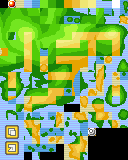
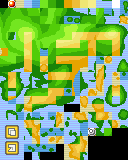
Add Secret Rocks to map

Changed region(s): [[0.75, 0.7812, 0.875, 0.875]]

diff --git a/src/data/region_map/region_map_layout_kanto.h b/src/data/region_map/region_map_layout_kanto.h
@@ -1,10 +1,10 @@
 static const u8 sRegionMapSections_Kanto[LAYER_COUNT][MAP_HEIGHT][MAP_WIDTH] = {
     [LAYER_MAP] =
     {
-        {MAPSEC_NONE, MAPSEC_NONE, MAPSEC_NONE, MAPSEC_NONE, MAPSEC_NONE, MAPSEC_NONE, MAPSEC_NONE, MAPSEC_NONE, MAPSEC_NONE, MAPSEC_NONE, MAPSEC_NONE, MAPSEC_NONE, MAPSEC_NONE, MAPSEC_NONE, MAPSEC_NONE, MAPSEC_NONE, MAPSEC_NONE, MAPSEC_NONE, MAPSEC_NONE, MAPSEC_NONE, MAPSEC_NONE, MAPSEC_NONE},
         {MAPSEC_NONE, MAPSEC_NONE, MAPSEC_NONE, MAPSEC_NONE, MAPSEC_NONE, MAPSEC_NONE, MAPSEC_NONE, MAPSEC_NONE, MAPSEC_NONE, MAPSEC_NONE, MAPSEC_NONE, MAPSEC_NONE, MAPSEC_NONE, MAPSEC_NONE, MAPSEC_ROUTE_24, MAPSEC_ROUTE_25, MAPSEC_ROUTE_25, MAPSEC_NONE, MAPSEC_NONE, MAPSEC_NONE, MAPSEC_NONE, MAPSEC_NONE},
         {MAPSEC_NONE, MAPSEC_NONE, MAPSEC_NONE, MAPSEC_NONE, MAPSEC_NONE, MAPSEC_NONE, MAPSEC_NONE, MAPSEC_NONE, MAPSEC_NONE, MAPSEC_NONE, MAPSEC_NONE, MAPSEC_NONE, MAPSEC_NONE, MAPSEC_NONE, MAPSEC_ROUTE_24, MAPSEC_NONE, MAPSEC_NONE, MAPSEC_NONE, MAPSEC_NONE, MAPSEC_NONE, MAPSEC_NONE, MAPSEC_NONE},
-        {MAPSEC_NONE, MAPSEC_NONE, MAPSEC_NONE, MAPSEC_NONE, MAPSEC_NONE, MAPSEC_NONE, MAPSEC_NONE, MAPSEC_NONE, MAPSEC_ROUTE_4_POKECENTER, MAPSEC_ROUTE_4, MAPSEC_ROUTE_4, MAPSEC_ROUTE_4, MAPSEC_ROUTE_4, MAPSEC_ROUTE_4, MAPSEC_CERULEAN_CITY, MAPSEC_ROUTE_9, MAPSEC_ROUTE_9, MAPSEC_ROUTE_9, MAPSEC_ROUTE_10_POKECENTER, MAPSEC_NONE, MAPSEC_NONE, MAPSEC_NONE},
+        {MAPSEC_NONE, MAPSEC_NONE, MAPSEC_NONE, MAPSEC_NONE, MAPSEC_NONE, MAPSEC_NONE, MAPSEC_NONE, MAPSEC_SECRET_ROCKS, MAPSEC_ROUTE_4, MAPSEC_ROUTE_4, MAPSEC_ROUTE_4, MAPSEC_ROUTE_4, MAPSEC_ROUTE_4, MAPSEC_ROUTE_4, MAPSEC_CERULEAN_CITY, MAPSEC_ROUTE_9, MAPSEC_ROUTE_9, MAPSEC_ROUTE_9, MAPSEC_ROUTE_10_POKECENTER, MAPSEC_NONE, MAPSEC_NONE, MAPSEC_NONE},
+        {MAPSEC_NONE, MAPSEC_NONE, MAPSEC_NONE, MAPSEC_NONE, MAPSEC_NONE, MAPSEC_NONE, MAPSEC_NONE, MAPSEC_NONE, MAPSEC_ROUTE_3, MAPSEC_NONE, MAPSEC_NONE, MAPSEC_NONE, MAPSEC_NONE, MAPSEC_NONE, MAPSEC_ROUTE_5, MAPSEC_NONE, MAPSEC_NONE, MAPSEC_NONE, MAPSEC_ROUTE_10, MAPSEC_NONE, MAPSEC_NONE, MAPSEC_NONE},
         {MAPSEC_NONE, MAPSEC_NONE, MAPSEC_NONE, MAPSEC_NONE, MAPSEC_PEWTER_CITY, MAPSEC_ROUTE_3, MAPSEC_ROUTE_3, MAPSEC_ROUTE_3, MAPSEC_ROUTE_3, MAPSEC_NONE, MAPSEC_NONE, MAPSEC_NONE, MAPSEC_NONE, MAPSEC_NONE, MAPSEC_ROUTE_5, MAPSEC_NONE, MAPSEC_NONE, MAPSEC_NONE, MAPSEC_ROUTE_10, MAPSEC_NONE, MAPSEC_NONE, MAPSEC_NONE},
         {MAPSEC_NONE, MAPSEC_NONE, MAPSEC_NONE, MAPSEC_NONE, MAPSEC_ROUTE_2, MAPSEC_NONE, MAPSEC_NONE, MAPSEC_NONE, MAPSEC_NONE, MAPSEC_NONE, MAPSEC_NONE, MAPSEC_NONE, MAPSEC_NONE, MAPSEC_NONE, MAPSEC_ROUTE_5, MAPSEC_NONE, MAPSEC_NONE, MAPSEC_NONE, MAPSEC_ROUTE_10, MAPSEC_NONE, MAPSEC_NONE, MAPSEC_NONE},
         {MAPSEC_NONE, MAPSEC_NONE, MAPSEC_NONE, MAPSEC_NONE, MAPSEC_ROUTE_2, MAPSEC_NONE, MAPSEC_NONE, MAPSEC_NONE, MAPSEC_ROUTE_16, MAPSEC_ROUTE_16, MAPSEC_ROUTE_16, MAPSEC_CELADON_CITY, MAPSEC_ROUTE_7, MAPSEC_ROUTE_7, MAPSEC_SAFFRON_CITY, MAPSEC_ROUTE_8, MAPSEC_ROUTE_8, MAPSEC_ROUTE_8, MAPSEC_LAVENDER_TOWN, MAPSEC_NONE, MAPSEC_NONE, MAPSEC_NONE},

diff --git a/src/data/heal_locations.h b/src/data/heal_locations.h
@@ -64,11 +64,11 @@ static const struct HealLocation sHealLocations[NUM_HEAL_LOCATIONS - 1] = {
         .x = 24,
         .y = 39,
     },
-    [HEAL_LOCATION_ROUTE4 - 1] = {
-        .mapGroup = MAP_GROUP(MAP_ROUTE4),
-        .mapNum = MAP_NUM(MAP_ROUTE4),
-        .x = 12,
-        .y = 6,
+    [HEAL_LOCATION_SECRET_ROCKS - 1] = {
+        .mapGroup = MAP_GROUP(MAP_VOID),
+        .mapNum = MAP_NUM(MAP_VOID),
+        .x = 0,
+        .y = 0,
     },
     [HEAL_LOCATION_ROUTE10 - 1] = {
         .mapGroup = MAP_GROUP(MAP_ROUTE10),
@@ -143,7 +143,7 @@ static const u16 sWhiteoutRespawnHealCenterMapIdxs[NUM_HEAL_LOCATIONS - 1][2] = 
     [HEAL_LOCATION_FUCHSIA_CITY - 1] = { MAP_GROUP(MAP_FUCHSIA_CITY_POKEMON_CENTER_1F), MAP_NUM(MAP_FUCHSIA_CITY_POKEMON_CENTER_1F)},
     [HEAL_LOCATION_INDIGO_PLATEAU - 1] = { MAP_GROUP(MAP_INDIGO_PLATEAU_POKEMON_CENTER_1F), MAP_NUM(MAP_INDIGO_PLATEAU_POKEMON_CENTER_1F)},
     [HEAL_LOCATION_SAFFRON_CITY - 1] = { MAP_GROUP(MAP_SAFFRON_CITY_POKEMON_CENTER_1F), MAP_NUM(MAP_SAFFRON_CITY_POKEMON_CENTER_1F)},
-    [HEAL_LOCATION_ROUTE4 - 1] = { MAP_GROUP(MAP_ROUTE4_POKEMON_CENTER_1F), MAP_NUM(MAP_ROUTE4_POKEMON_CENTER_1F)},
+    [HEAL_LOCATION_SECRET_ROCKS - 1] = { MAP_GROUP(MAP_VOID), MAP_NUM(MAP_VOID)},
     [HEAL_LOCATION_ROUTE10 - 1] = { MAP_GROUP(MAP_ROUTE10_POKEMON_CENTER_1F), MAP_NUM(MAP_ROUTE10_POKEMON_CENTER_1F)},
     [HEAL_LOCATION_ONE_ISLAND - 1] = { MAP_GROUP(MAP_ONE_ISLAND_POKEMON_CENTER_1F), MAP_NUM(MAP_ONE_ISLAND_POKEMON_CENTER_1F)},
     [HEAL_LOCATION_TWO_ISLAND - 1] = { MAP_GROUP(MAP_TWO_ISLAND_POKEMON_CENTER_1F), MAP_NUM(MAP_TWO_ISLAND_POKEMON_CENTER_1F)},
@@ -167,7 +167,7 @@ static const u8 sWhiteoutRespawnHealerNpcIds[NUM_HEAL_LOCATIONS - 1] = {
     [HEAL_LOCATION_FUCHSIA_CITY - 1] = LOCALID_FUCHSIA_NURSE,
     [HEAL_LOCATION_INDIGO_PLATEAU - 1] = LOCALID_LEAGUE_NURSE,
     [HEAL_LOCATION_SAFFRON_CITY - 1] = LOCALID_SAFFRON_NURSE,
-    [HEAL_LOCATION_ROUTE4 - 1] = LOCALID_ROUTE4_NURSE,
+    [HEAL_LOCATION_SECRET_ROCKS - 1] = 0,
     [HEAL_LOCATION_ROUTE10 - 1] = LOCALID_ROUTE10_NURSE,
     [HEAL_LOCATION_ONE_ISLAND - 1] = LOCALID_ONE_ISLAND_NURSE,
     [HEAL_LOCATION_TWO_ISLAND - 1] = LOCALID_TWO_ISLAND_NURSE,

diff --git a/src/region_map.c b/src/region_map.c
@@ -836,7 +836,7 @@ static const u8 sMapFlyDestinations[][3] = {
     [MAPSEC_RUINS_OF_CINNABAR   - KANTO_MAPSEC_START] = {MAP(MAP_RUINS_OF_CINNABAR),                     HEAL_LOCATION_RUINS_OF_CINNABAR},
     [MAPSEC_INDIGO_PLATEAU      - KANTO_MAPSEC_START] = {MAP(MAP_INDIGO_PLATEAU_EXTERIOR),               HEAL_LOCATION_INDIGO_PLATEAU},
     [MAPSEC_SAFFRON_CITY        - KANTO_MAPSEC_START] = {MAP(MAP_SAFFRON_CITY),                          HEAL_LOCATION_SAFFRON_CITY},
-    [MAPSEC_ROUTE_4_POKECENTER  - KANTO_MAPSEC_START] = {MAP(MAP_ROUTE4),                                HEAL_LOCATION_ROUTE4},
+    [MAPSEC_SECRET_ROCKS        - KANTO_MAPSEC_START] = {MAP(MAP_ROUTE4), /* TODO: Add new map later */  HEAL_LOCATION_SECRET_ROCKS},
     [MAPSEC_ROUTE_10_POKECENTER - KANTO_MAPSEC_START] = {MAP(MAP_ROUTE10),                               HEAL_LOCATION_ROUTE10},
     [MAPSEC_SECRET_PATH         - KANTO_MAPSEC_START] = {MAP(MAP_SECRET_PATH_SOUTH),                     0},
     [MAPSEC_ROUTE_1             - KANTO_MAPSEC_START] = {MAP(MAP_ROUTE1),                                0},
@@ -1155,7 +1155,7 @@ static void CreateMainMapTask(void)
 
 static bool32 SelectedMapsecSEEnabled(void)
 {
-    if (GetSelectedMapSection(GetSelectedRegionMap(), LAYER_MAP, GetMapCursorY(), GetMapCursorX()) == MAPSEC_ROUTE_4_POKECENTER)
+    if (GetSelectedMapSection(GetSelectedRegionMap(), LAYER_MAP, GetMapCursorY(), GetMapCursorX()) == MAPSEC_SECRET_ROCKS)
         return FALSE;
     else
         return TRUE;
@@ -2987,7 +2987,7 @@ static u8 GetMapsecType(u8 mapsec)
         return FlagGet(FLAG_WORLD_MAP_SEVEN_ISLAND) ? MAPSECTYPE_VISITED : MAPSECTYPE_NOT_VISITED;
     case MAPSEC_SIX_ISLAND:
         return FlagGet(FLAG_WORLD_MAP_SECRET_WOODS) ? MAPSECTYPE_VISITED : MAPSECTYPE_NOT_VISITED;
-    case MAPSEC_ROUTE_4_POKECENTER:
+    case MAPSEC_SECRET_ROCKS:
         if (!GetRegionMapPermission(MAPPERM_HAS_FLY_DESTINATIONS))
             return MAPSECTYPE_NONE;
         return FlagGet(FLAG_WORLD_MAP_ROUTE4_POKEMON_CENTER_1F) ? MAPSECTYPE_VISITED : MAPSECTYPE_NOT_VISITED;

diff --git a/src/wild_pokemon_area.c b/src/wild_pokemon_area.c
@@ -34,7 +34,7 @@ static const u16 sDexAreas_Kanto[][2] = {
     { MAPSEC_RUINS_OF_CINNABAR,     DEX_AREA_CINNABAR_ISLAND },
     { MAPSEC_INDIGO_PLATEAU,      DEX_AREA_INDIGO_PLATEAU },
     { MAPSEC_SAFFRON_CITY,        DEX_AREA_SAFFRON_CITY },
-    { MAPSEC_ROUTE_4_POKECENTER,  DEX_AREA_ROUTE_4 },
+    { MAPSEC_SECRET_ROCKS,        DEX_AREA_ROUTE_4 },
     { MAPSEC_ROUTE_10_POKECENTER, DEX_AREA_ROUTE_10 },
     { MAPSEC_ROUTE_1,             DEX_AREA_ROUTE_1 },
     { MAPSEC_ROUTE_2,             DEX_AREA_ROUTE_2 },

diff --git a/include/constants/region_map_sections.h b/include/constants/region_map_sections.h
@@ -104,13 +104,13 @@ enum {
     MAPSEC_RUINS_OF_CINNABAR,
     MAPSEC_INDIGO_PLATEAU,
     MAPSEC_SAFFRON_CITY,
-    MAPSEC_ROUTE_4_POKECENTER,
     MAPSEC_ROUTE_10_POKECENTER,
     MAPSEC_SECRET_WOODS,
     MAPSEC_SECRET_PATH,
     MAPSEC_ROUTE_1,
     MAPSEC_ROUTE_2,
     MAPSEC_ROUTE_3,
+    MAPSEC_SECRET_ROCKS,
     MAPSEC_ROUTE_4,
     MAPSEC_ROUTE_5,
     MAPSEC_ROUTE_6,

diff --git a/include/constants/heal_locations.h b/include/constants/heal_locations.h
@@ -18,7 +18,7 @@ enum {
     HEAL_LOCATION_FUCHSIA_CITY,
     HEAL_LOCATION_INDIGO_PLATEAU,
     HEAL_LOCATION_SAFFRON_CITY,
-    HEAL_LOCATION_ROUTE4,
+    HEAL_LOCATION_SECRET_ROCKS,
     HEAL_LOCATION_ROUTE10,
     HEAL_LOCATION_ONE_ISLAND,
     HEAL_LOCATION_TWO_ISLAND,
